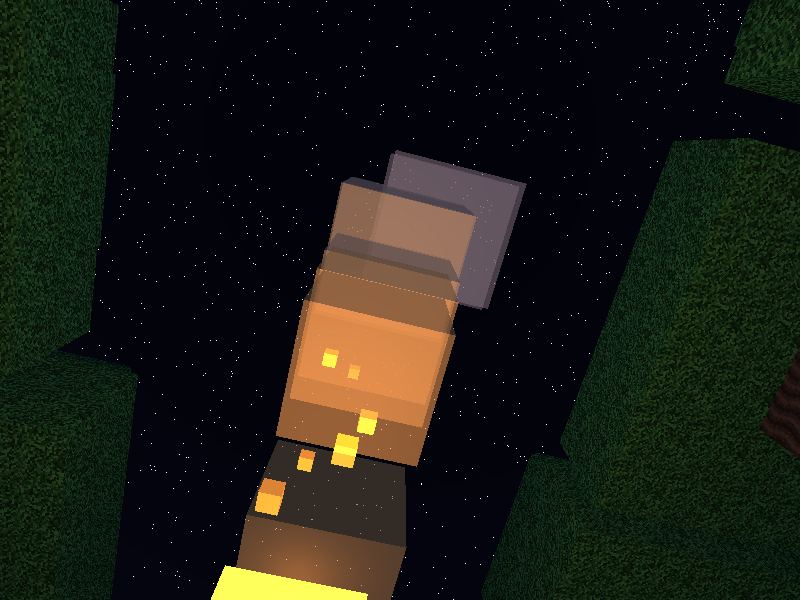
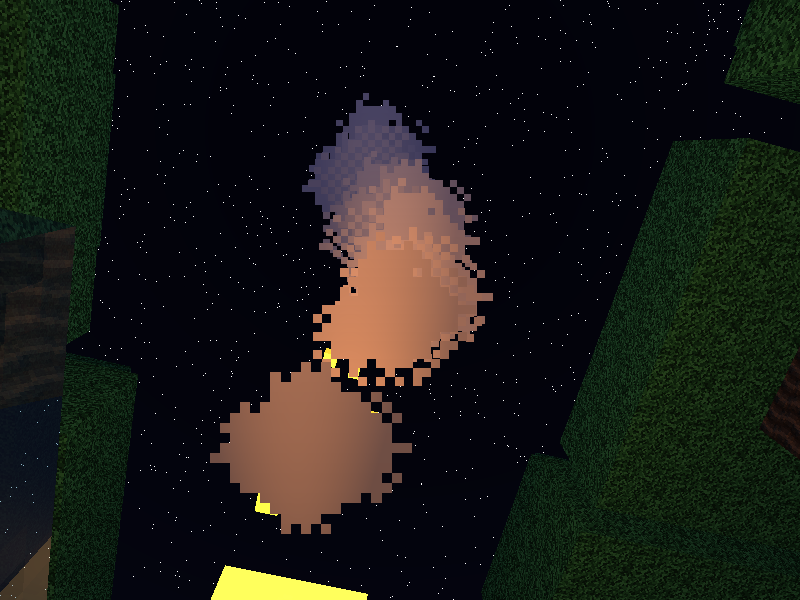
feat(scene): Reemplazar cubos de humo por billboards, reposicionar gemas refractivas y añadir cámaras de inspección.

Changed region(s): [[0.25, 0.15, 0.6562, 1.0], [0.0, 0.36, 0.0938, 1.0]]

diff --git a/src/scene.rs b/src/scene.rs
@@ -127,63 +127,31 @@ impl Scene {
             ).without_shadow().with_tile_uv(false));
         }
 
-        // --- Humo: 8 cubos translúcidos subiendo con dispersión y ligera emisión propia ---
-        for i in 0..8 {
-            let t = i as f32 / 7.0;
-            let sy = ground_y + 1.40 + t * 5.2;
-            let ss = 0.45 + t * 1.15; // de 0.45 a 1.60
-
-            // Deriva lateral continua suave hacia +X y +Z
-            let drift_x = t * 0.55;
-            let drift_z = t * 0.45;
-
-            // Desplazamiento determinístico ±0.15-0.25 para romper la columna recta
-            let jitter_x = ((i * 17 + 5) % 9) as f32 / 8.0 * 0.40 - 0.20;
-            let jitter_z = ((i * 23 + 3) % 9) as f32 / 8.0 * 0.40 - 0.20;
-
-            let sx = drift_x + jitter_x;
-            let sz = drift_z + jitter_z;
-
-            let mat = if i <= 2 {
-                mats.smoke_base
-            } else if i <= 5 {
-                mats.smoke
-            } else {
-                mats.smoke_top
-            };
-
-            cubes.push(Cube::new_box(
-                Vector3::new(sx - ss * 0.5, sy, sz - ss * 0.5),
-                Vector3::new(ss, ss * 0.85, ss),
-                mat,
-            ).without_shadow().with_tile_uv(false));
-        }
-
         // --- Troncos horizontales para sentarse (~2x0.5x0.5 con textura bark y mapa normal) ---
-        // Log 1: Detrás de la fogata frente a Robo y Lucca
+        // Log 1: Detrás de la fogata frente a Robo y Lucca (veta horizontal a lo largo de X)
         cubes.push(Cube::new_box(
             Vector3::new(-1.10, ground_y, -1.75),
             Vector3::new(2.20, 0.45, 0.50),
             mats.bark,
-        ));
-        // Log 2: Costado izquierdo junto a Frog
+        ).with_log_axis('X'));
+        // Log 2: Costado izquierdo junto a Frog (veta horizontal a lo largo de Z)
         cubes.push(Cube::new_box(
             Vector3::new(-1.85, ground_y, -0.90),
             Vector3::new(0.50, 0.45, 1.80),
             mats.bark,
-        ));
-        // Log 3: Costado derecho junto a Ayla
+        ).with_log_axis('Z'));
+        // Log 3: Costado derecho junto a Ayla (veta horizontal a lo largo de Z)
         cubes.push(Cube::new_box(
             Vector3::new(1.35, ground_y, -0.90),
             Vector3::new(0.50, 0.45, 1.80),
             mats.bark,
-        ));
-        // Log 4: Junto al árbol de Magus
+        ).with_log_axis('Z'));
+        // Log 4: Junto al árbol de Magus (veta horizontal a lo largo de X)
         cubes.push(Cube::new_box(
             Vector3::new(3.00, ground_y, -2.40),
             Vector3::new(1.80, 0.45, 0.50),
             mats.bark,
-        ));
+        ).with_log_axis('X'));
 
         // --- Puente de tablones donde el camino cruza el arroyo (elevado ~0.08, agua visible a ambos lados) ---
         let bridge_y = terrain_height_at(&cubes, 0.5, 4.0);
@@ -193,10 +161,18 @@ impl Scene {
             mats.planks,
         ));
 
-        // --- Cristales/gemas tirados cerca de la fogata (refracción + reflexión) ---
-        for &(x, z) in &[(-2.0, 0.5), (2.2, -0.8), (0.7, 1.7)] {
-            cubes.push(Cube::new(Vector3::new(x, ground_y, z), 0.5, mats.gem));
-        }
+        // --- 2 Gemas (refracción visible, n=1.55) a los lados del fuego ---
+        // Se aprecian desde el encuadre inicial deformando el suelo iluminado y la fogata detrás
+        cubes.push(Cube::new_box(
+            Vector3::new(-0.75, ground_y, 0.55),
+            Vector3::new(0.55, 0.55, 0.55),
+            mats.gem,
+        ));
+        cubes.push(Cube::new_box(
+            Vector3::new(0.75, ground_y, 0.55),
+            Vector3::new(0.55, 0.55, 0.55),
+            mats.gem,
+        ));
 
         // --- Luces (máximo 2: fogata con sombras + luz de relleno azul tenue sin sombras) ---
         let lights = vec![
@@ -204,10 +180,41 @@ impl Scene {
             Light::sky_fill(Vector3::new(0.0, 15.0, 0.0)),
         ];
 
-        // --- Personajes de pie (Billboards: Robo, Lucca, Frog, Ayla, Magus) ---
-        let base_height = 1.8f32;
+        // --- Billboards de la escena: Humo, Personajes y Mechones de pasto ---
         let mut billboards = Vec::new();
 
+        // 1. Humo con 11 billboards: bocanadas procedurales que suben desde la llama
+        let smoke_textures = [
+            "assets/smoke_puff_0.png",
+            "assets/smoke_puff_1.png",
+            "assets/smoke_puff_2.png",
+        ];
+        for i in 0..11 {
+            let t = i as f32 / 10.0;
+            let sy = ground_y + 1.25 + t * 4.8;
+            let size = 0.60 + t * 1.20; // de 0.60 en la llama a 1.80 arriba
+
+            // Deriva senoidal suave + jitter determinístico
+            let drift_x = (t * std::f32::consts::PI * 1.6).sin() * 0.35 + t * 0.30;
+            let drift_z = (t * std::f32::consts::PI * 1.2).cos() * 0.20 + t * 0.25;
+            let jitter_x = ((i * 17 + 5) % 9) as f32 / 8.0 * 0.24 - 0.12;
+            let jitter_z = ((i * 23 + 3) % 9) as f32 / 8.0 * 0.24 - 0.12;
+
+            let sx = drift_x + jitter_x;
+            let sz = drift_z + jitter_z;
+
+            let tex = smoke_textures[i % 3];
+            let warm_emit = Vector3::new(0.20, 0.12, 0.04) * (1.0 - t).powi(2);
+
+            billboards.push(
+                Billboard::new(Vector3::new(sx, sy, sz), size, size, tex)
+                    .with_smoke(true)
+                    .with_emission(warm_emit),
+            );
+        }
+
+        // 2. Personajes de pie (Billboards: Robo, Lucca, Frog, Ayla, Magus, Marle, Chrono)
+        let base_height = 1.8f32;
         let standing_party = [
             ("assets/party/Robo.png", -0.75, -2.20, 1.10),
             ("assets/party/Lucca.png", 0.55, -2.20, 0.90),
@@ -223,7 +230,10 @@ impl Scene {
             let height = base_height * mult;
             let aspect = get_png_aspect_ratio(tex);
             let width = height * aspect;
-            billboards.push(Billboard::new(Vector3::new(x, y, z), width, height, tex));
+            billboards.push(
+                Billboard::new(Vector3::new(x, y, z), width, height, tex)
+                    .with_blob_shadow(true),
+            );
         }
 
         // --- Mechones de pasto en la periferia de la clarería (Billboards con textura grass_tuft) ---
@@ -284,6 +294,9 @@ impl Scene {
             "assets/straw.png",
             "assets/tuft.png",
             "assets/grass_tuft.png",
+            "assets/smoke_puff_0.png",
+            "assets/smoke_puff_1.png",
+            "assets/smoke_puff_2.png",
             "assets/planks.png",
             "assets/party/Chrono.png",
             "assets/party/Marle.png",

diff --git a/src/main.rs b/src/main.rs
@@ -53,7 +53,8 @@ fn main() {
     let log_normal = args.iter().any(|a| a == "--log-normal");
     let log_nonormal = args.iter().any(|a| a == "--log-nonormal");
     let smoke_view = args.iter().any(|a| a == "--smoke");
-    let headless = args.iter().any(|a| a == "--screenshot") || log_normal || log_nonormal || smoke_view;
+    let gem_view = args.iter().any(|a| a == "--gem-closeup" || a == "--gem");
+    let headless = args.iter().any(|a| a == "--screenshot") || log_normal || log_nonormal || smoke_view || gem_view;
     let rotated = args.iter().any(|a| a == "--rotated");
     let elevated = args.iter().any(|a| a == "--elevated");
     let closeup = args.iter().any(|a| a == "--closeup");
@@ -71,9 +72,17 @@ fn main() {
 
     let mut camera = if log_normal || log_nonormal {
         // Primer plano de un tronco de asiento (Log 3 a X=1.35..1.85, Y=3.0..3.45, Z=-0.9..0.9)
+        // Visto de lado con luz rasante del fuego iluminando la corteza directamente
         Camera::new(
-            Vector3::new(0.55, 3.55, 0.00),
-            Vector3::new(1.60, 3.22, 0.00),
+            Vector3::new(0.40, 3.65, -0.40),
+            Vector3::new(1.60, 3.25, -0.20),
+            Vector3::new(0.0, 1.0, 0.0),
+        )
+    } else if gem_view {
+        // Primer plano de una gema mostrando refracción con la fogata y el suelo iluminado detrás
+        Camera::new(
+            Vector3::new(1.55, 3.65, 1.35),
+            Vector3::new(0.50, 3.20, 0.40),
             Vector3::new(0.0, 1.0, 0.0),
         )
     } else if smoke_view {
@@ -226,6 +235,8 @@ fn main() {
                     "screenshot_log_normal.png"
                 } else if log_nonormal {
                     "screenshot_log_nonormal.png"
+                } else if gem_view {
+                    "screenshot_gem.png"
                 } else if smoke_view {
                     "screenshot_smoke.png"
                 } else if closeup {
